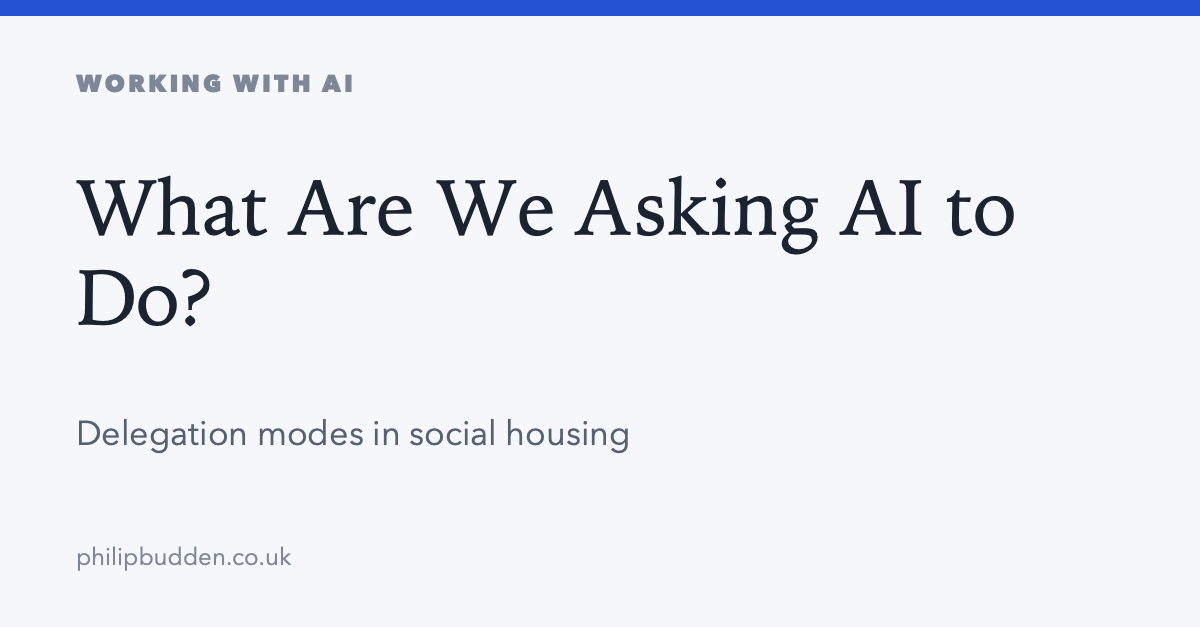
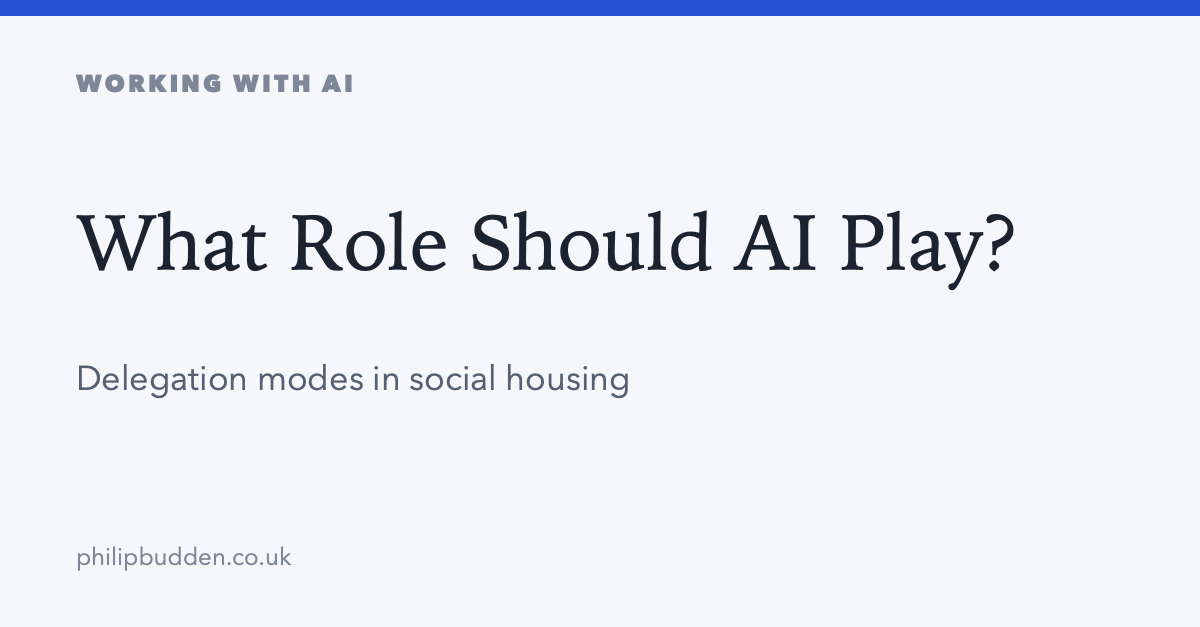
Rename AI delegation modes article

Changed region(s): [[0.0617, 0.2727, 0.8633, 0.5455], [0.0617, 0.6667, 0.5242, 0.7273], [0.0617, 0.5758, 0.5242, 0.6364]]

diff --git a/_articles/what-are-we-asking-ai-to-do-in-social-housing.md b/_articles/what-are-we-asking-ai-to-do-in-social-housing.md
@@ -1,5 +1,5 @@
 ---
-title: "What Are We Asking AI to Do?"
+title: "What Role Should AI Play?"
 date: 2026-11-16
 summary: "How exploratory, assistive and executional uses of AI shape judgement, checking and accountability in social housing."
 tags:
@@ -11,10 +11,10 @@ tags:
 draft: false
 layout: article
 social_image: /assets/social/what-are-we-asking-ai-to-do-in-social-housing.png
-social_image_alt: "What Are We Asking AI to Do? Delegation modes in social housing."
+social_image_alt: "What Role Should AI Play? Delegation modes in social housing."
 ---
 
-# What Are We Asking AI to Do?
+# What Role Should AI Play?
 
 My Practical Delegation Test is a way to decide what work to delegate to AI, what should remain human-led and who answers for the result. It distinguishes three broad Delegation Modes: exploratory, assistive and executional use. They describe the kind of use, with different implications for what needs to be settled before work begins.
 
